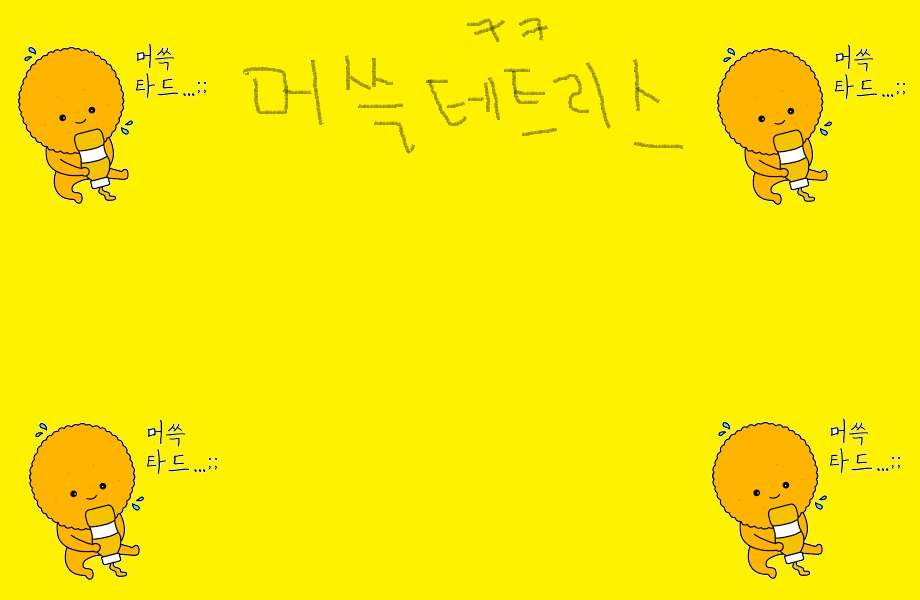
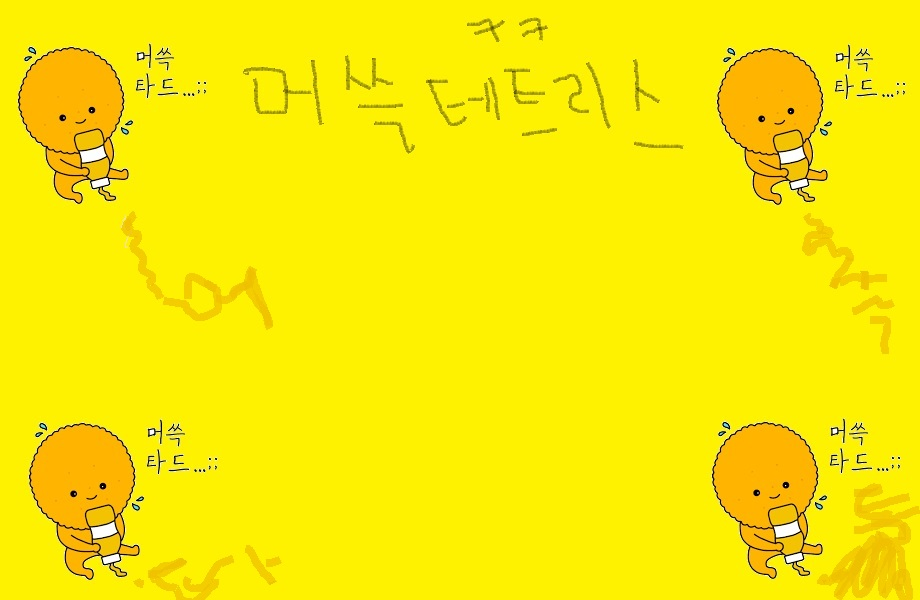
background image 수정

diff --git a/Tetris_Millions/src/com/tetris/window/TetrisBoard.java b/Tetris_Millions/src/com/tetris/window/TetrisBoard.java
@@ -153,7 +153,6 @@ public class TetrisBoard extends JPanel implements Runnable, KeyListener, MouseL
 	public TetrisBoard(Tetris tetris, GameClient client) {
 		retrofitApi = ApiClient.getClient_aws().create(RetrofitApi.class); // minshik
 		
-		
 		this.tetris = tetris;
 		this.client = client;
 		this.setPreferredSize(new Dimension(PANEL_WIDTH, PANEL_HEIGHT));// 기본크기
@@ -166,7 +165,6 @@ public class TetrisBoard extends JPanel implements Runnable, KeyListener, MouseL
 		btnStart.setFocusable(false);
 		btnStart.setEnabled(false);
 		btnStart.addActionListener(this);
-
 		btnStart.addMouseListener(new MouseAdapter() {
 			public void mousePressed(MouseEvent e) {
 				Music MousePressedSound = new Music("Start.mp3", false);
@@ -323,7 +321,7 @@ public class TetrisBoard extends JPanel implements Runnable, KeyListener, MouseL
 		this.add(checkEffect); // 효과음(millions)
 		this.add(checkBGM); /// 배경음악(millions)
 
-		icon1 = new ImageIcon(TetrisMain.class.getResource("../../../Images/gameBackground3.jpg.png")); // 게임배경 변경 - 경제훈
+		icon1 = new ImageIcon(TetrisMain.class.getResource("../../../Images/gameBackground4.png")); // 게임배경 변경 - 경제훈
 
 	}
 
@@ -337,27 +335,28 @@ public class TetrisBoard extends JPanel implements Runnable, KeyListener, MouseL
 	/**
 	 * TODO : 게임시작 게임을 시작한다.
 	 */
-
 	public void gameStart(int speed) {
 		comboSpeed.setSelectedItem(new Integer(speed));
 		gameSpeed = speed; // hwadong
 		initSpeed = gameSpeed; // hwadong
+		
+		
 		// 돌고 있을 스레드를 정지시킨다.
 		if (th != null) {
 			try {
 				isPlay = false;
-
 				th.join();
 				// th2.join(); // hwadong
 			} catch (InterruptedException e) {
 				e.printStackTrace();
 			}
 		}
+		
+		
 		//게임 초기 음악 1번으로 설정
 		SoundNumber = 1;
 		//음악 선택 초기화
 		FixedSound = 0; 
-		
 		if (GameMusic != null && GameMusic.isAlive()) {
 			GameMusic.close();
 			if (checkBGM.isSelected()) {
@@ -400,6 +399,7 @@ public class TetrisBoard extends JPanel implements Runnable, KeyListener, MouseL
 		blockList2 = new ArrayList<Block>();
 		
 		
+		//minshik 1.맵 모드 들어갈 경우 초반에 세팅되는 첫번 째 맵
 		if(TetrisMain.GameMode == 3) {
 			Block mapblock = new Block(0, 0, Color.yellow, Color.yellow);
 			mapblock.setFixGridXY(maxX-1,maxY-1);
@@ -408,6 +408,7 @@ public class TetrisBoard extends JPanel implements Runnable, KeyListener, MouseL
 			map[maxY-1][maxX-1] = mapblock;
 		}
 		
+				
 		/*
 		// 정한교 체리 맵 추가 
 		{
@@ -1480,7 +1481,7 @@ public class TetrisBoard extends JPanel implements Runnable, KeyListener, MouseL
 		stopwatch(0);
 		comboSpeed.setEnabled(true); // combobox 잠금 hwadong
 		
-		getResult(TetrisMain.userId, TetrisMain.GameMode, myScore);
+		getResult(TetrisMain.userId, TetrisMain.GameMode, myScore, timerBuffer);
 	}
 
 	/**
@@ -1734,6 +1735,7 @@ public class TetrisBoard extends JPanel implements Runnable, KeyListener, MouseL
 			} else {
 				this.gameStart((int) comboSpeed.getSelectedItem());
 			}
+			
 		} else if (e.getSource() == btnExit) {
 
 			if (GameMusic != null && GameMusic.isAlive()) {
@@ -1880,8 +1882,19 @@ public class TetrisBoard extends JPanel implements Runnable, KeyListener, MouseL
 	}*/
 	
 	
-	public void getResult(String userId, int GameMode, int Score) {
-		Call<GameResultRepo> call = retrofitApi.add_point(userId, GameMode, Score);
+	
+	
+	
+	/**
+	 * 
+	 * @author minshik_kim
+	 * @param userId 사용자아이디
+	 * @param GameMode 게임모드
+	 * @param Score 점수
+	 * 게임이 끝났을 경우 해당 함수를 사용하여 서버로 점수를 보내고 결과값(랭킹)을 받아 새로운 결과창에 뿌림
+	 */
+	public void getResult(String userId, int GameMode, int Score, String timebuffer) {
+		Call<GameResultRepo> call = retrofitApi.add_point(userId, GameMode, Score, timebuffer);
 		call.enqueue(new Callback<GameResultRepo>() {
 			
 			@Override
@@ -1890,7 +1903,6 @@ public class TetrisBoard extends JPanel implements Runnable, KeyListener, MouseL
 					System.out.println(getClass().getName() + " / " + response.message());
 					return;
 				}
-				
 				
 				// 서버로 부터 온 데이터들이 gameResultRepo에 담김
 				GameResultRepo gameResultRepo = response.body(); //repo 가져오는 건 모드 스트링임

diff --git a/Tetris_Millions/src/com/tetris/main/RetrofitApi.java b/Tetris_Millions/src/com/tetris/main/RetrofitApi.java
@@ -63,7 +63,8 @@ public interface RetrofitApi {
 	Call<GameResultRepo> add_point(
 		@Field("user_id") String user_id,
 		@Field("mode") int mode_,
-		@Field("score") int score_
+		@Field("score") int score_,
+		@Field("time") String time_
 	);
 	
 	
